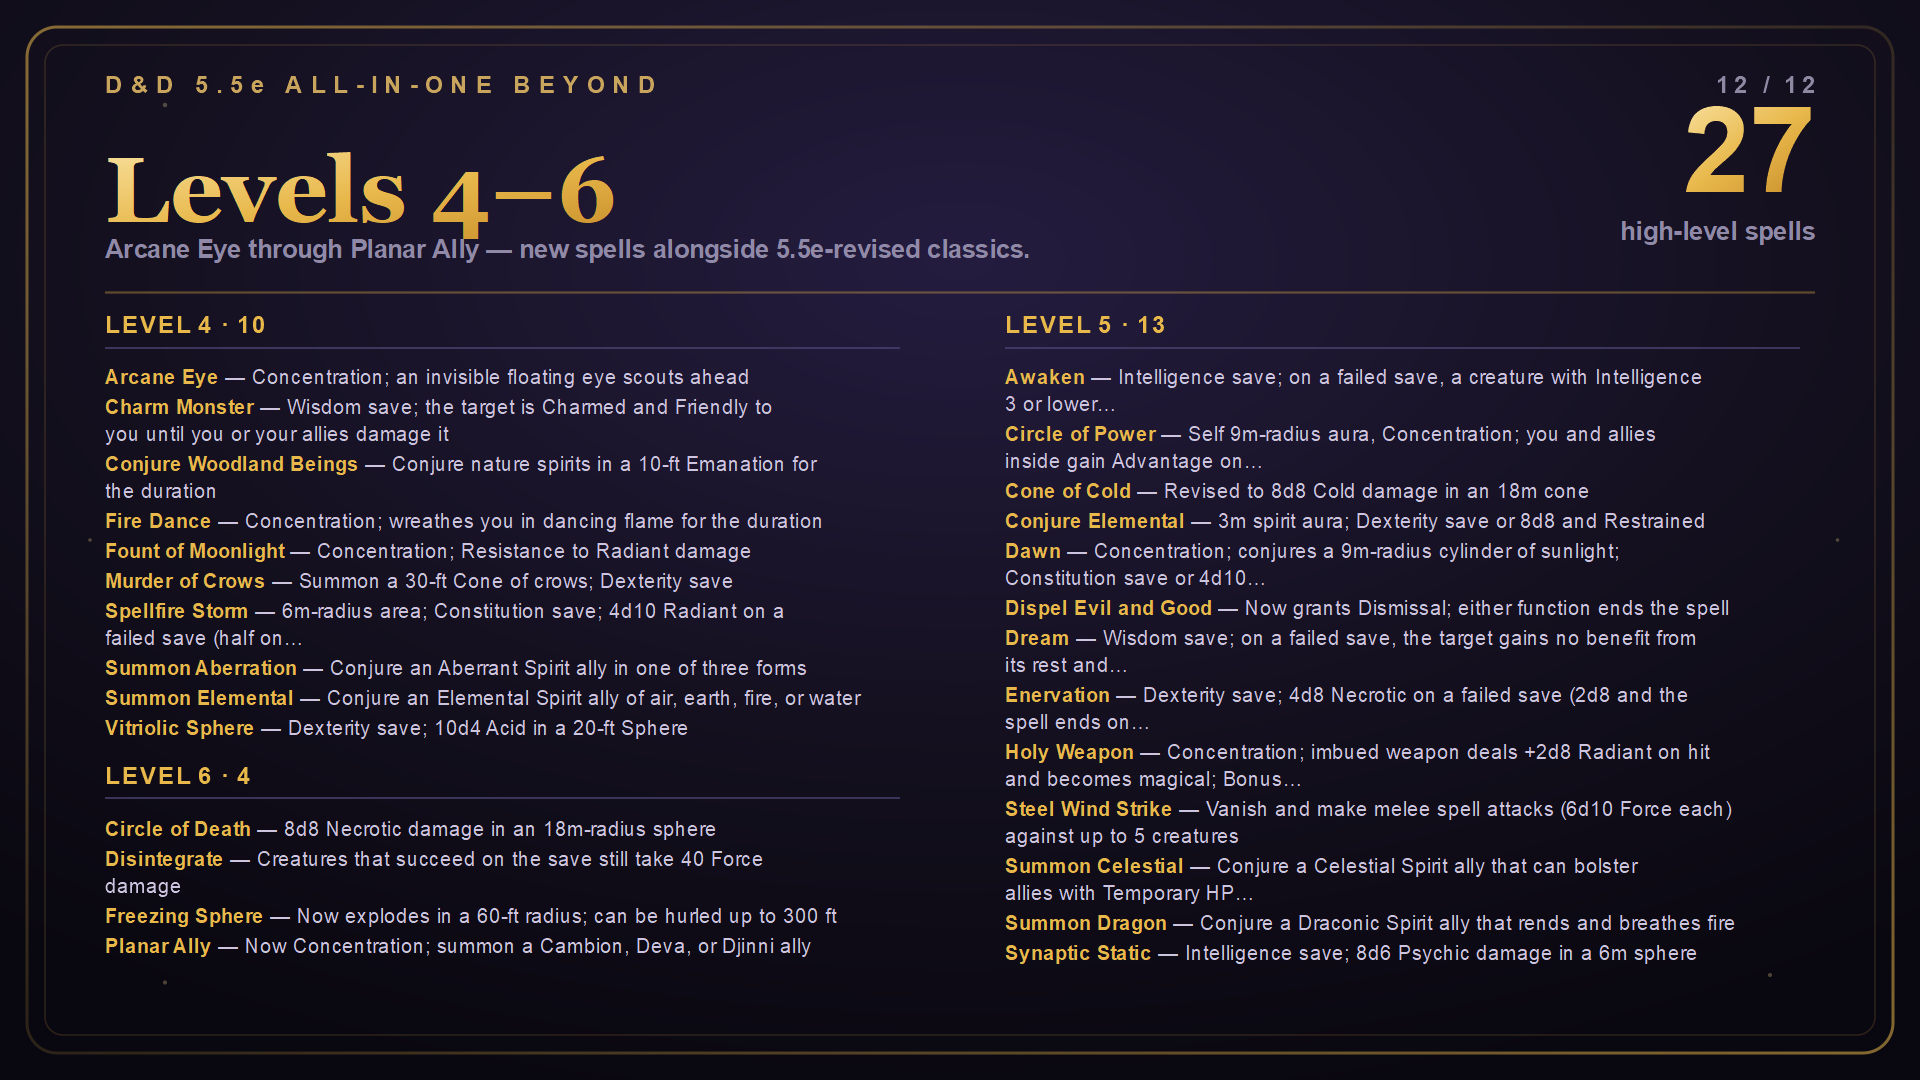
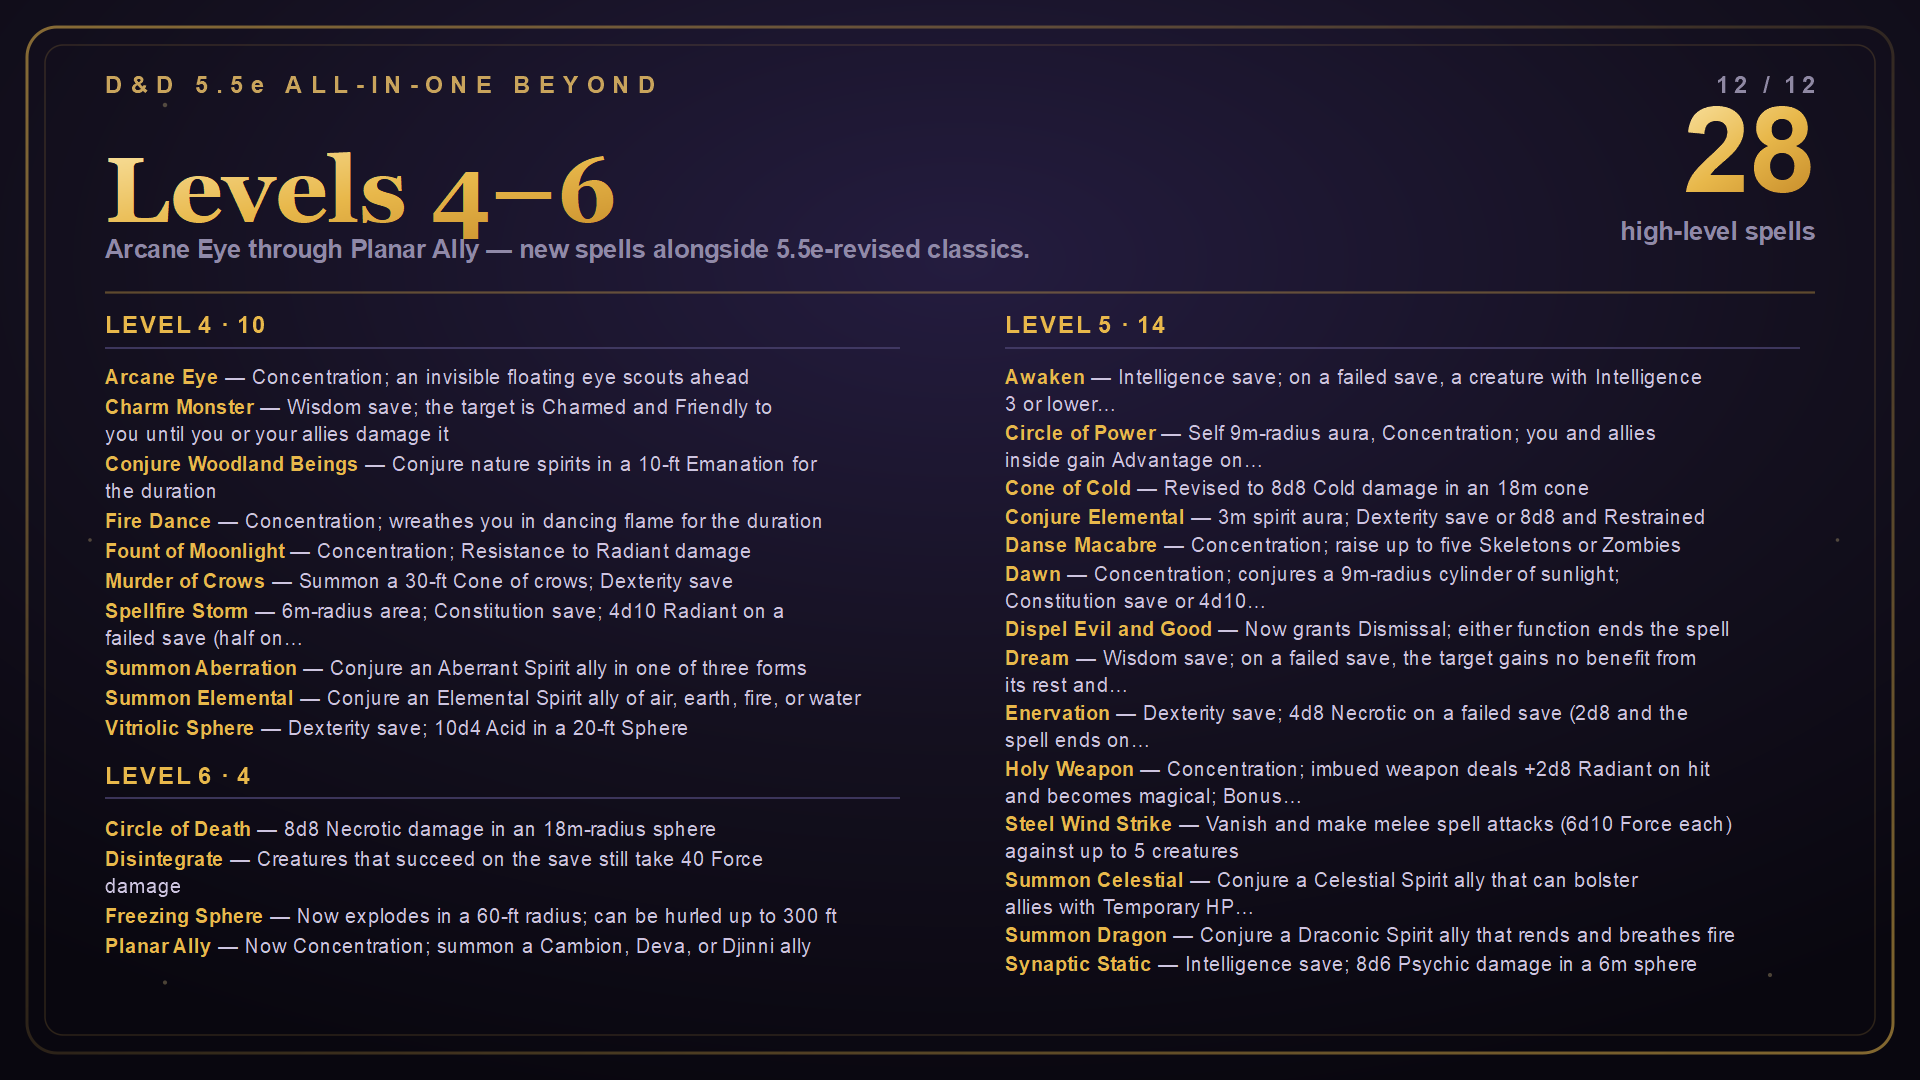
docs(spells): list Danse Macabre among the revised spells
Add Danse Macabre to the level 5 lists in the three READMEs and the
level 5 column of the levels 4-6 slide, tightening that column's spacing
to fit, and count 119 new and revised spells on the thumbnail.

Changed region(s): [[0.5, 0.3972, 0.9062, 0.9167], [0.9062, 0.0917, 0.9375, 0.1833]]

diff --git a/README_Modio.html b/README_Modio.html
@@ -93,7 +93,7 @@
   <li><strong>Level 2:</strong> Aganazzar's Scorcher, Alter Self, Arcane Vigor, Barkskin, Darkbolt, Dazing Blast, Death Armor, Dragon's Breath, Elminster's Elusion, Find Steed, Fire Rune, Gust of Wind, Lesser Restoration, Mind Spike, Moonbeam, Prayer of Healing, Rime's Binding Ice, Searing Orb, Shadow Blade, Snilloc's Snowball Swarm, Summon Beast, Tasha's Mind Whip, Warding Bond, Web.</li>
   <li><strong>Level 3:</strong> Animate Dead, Ashardalon's Stride, Astral Flood, Aura of Vitality, Bestow Curse, Cacophonic Shield, Conjure Barrage, Counterspell, Crusader's Mantle, Elemental Exhalation, Haste, Laeral's Silver Lance, Lightning Arrow, Murmurs of Doom, Phantom Steed, Summon Fey, Summon Undead, Tidal Wave, Trollblood Infusion, Void Strike.</li>
   <li><strong>Level 4:</strong> Arcane Eye, Charm Monster, Conjure Woodland Beings, Fire Dance, Fount of Moonlight, Murder of Crows, Spellfire Storm, Summon Aberration, Summon Elemental, Vitriolic Sphere.</li>
-  <li><strong>Level 5:</strong> Awaken, Circle of Power, Cone of Cold, Conjure Elemental, Dawn, Dispel Evil and Good, Dream, Enervation, Holy Weapon, Steel Wind Strike, Summon Celestial, Summon Dragon, Synaptic Static.</li>
+  <li><strong>Level 5:</strong> Awaken, Circle of Power, Cone of Cold, Conjure Elemental, Danse Macabre, Dawn, Dispel Evil and Good, Dream, Enervation, Holy Weapon, Steel Wind Strike, Summon Celestial, Summon Dragon, Synaptic Static.</li>
   <li><strong>Level 6:</strong> Circle of Death, Disintegrate, Freezing Sphere, Planar Ally.</li>
 </ul>
 

diff --git a/README.md b/README.md
@@ -103,7 +103,7 @@ Acid Splash, Blade Ward, Blood Bolt, Booming Blade, Bursting Sinew, Finger Guns,
 - Level 2: Aganazzar's Scorcher, Alter Self, Arcane Vigor, Barkskin, Darkbolt, Dazing Blast, Death Armor, Dragon's Breath, Elminster's Elusion, Find Steed, Fire Rune, Gust of Wind, Lesser Restoration, Mind Spike, Moonbeam, Prayer of Healing, Rime's Binding Ice, Searing Orb, Shadow Blade, Snilloc's Snowball Swarm, Summon Beast, Tasha's Mind Whip, Warding Bond, Web.
 - Level 3: Animate Dead, Ashardalon's Stride, Astral Flood, Aura of Vitality, Bestow Curse, Cacophonic Shield, Conjure Barrage, Counterspell, Crusader's Mantle, Elemental Exhalation, Haste, Laeral's Silver Lance, Lightning Arrow, Murmurs of Doom, Phantom Steed, Summon Fey, Summon Undead, Tidal Wave, Trollblood Infusion, Void Strike.
 - Level 4: Arcane Eye, Charm Monster, Conjure Woodland Beings, Fire Dance, Fount of Moonlight, Murder of Crows, Spellfire Storm, Summon Aberration, Summon Elemental, Vitriolic Sphere.
-- Level 5: Awaken, Circle of Power, Cone of Cold, Conjure Elemental, Dawn, Dispel Evil and Good, Dream, Enervation, Holy Weapon, Steel Wind Strike, Summon Celestial, Summon Dragon, Synaptic Static.
+- Level 5: Awaken, Circle of Power, Cone of Cold, Conjure Elemental, Danse Macabre, Dawn, Dispel Evil and Good, Dream, Enervation, Holy Weapon, Steel Wind Strike, Summon Celestial, Summon Dragon, Synaptic Static.
 - Level 6: Circle of Death, Disintegrate, Freezing Sphere, Planar Ally.
 
 ## Items
